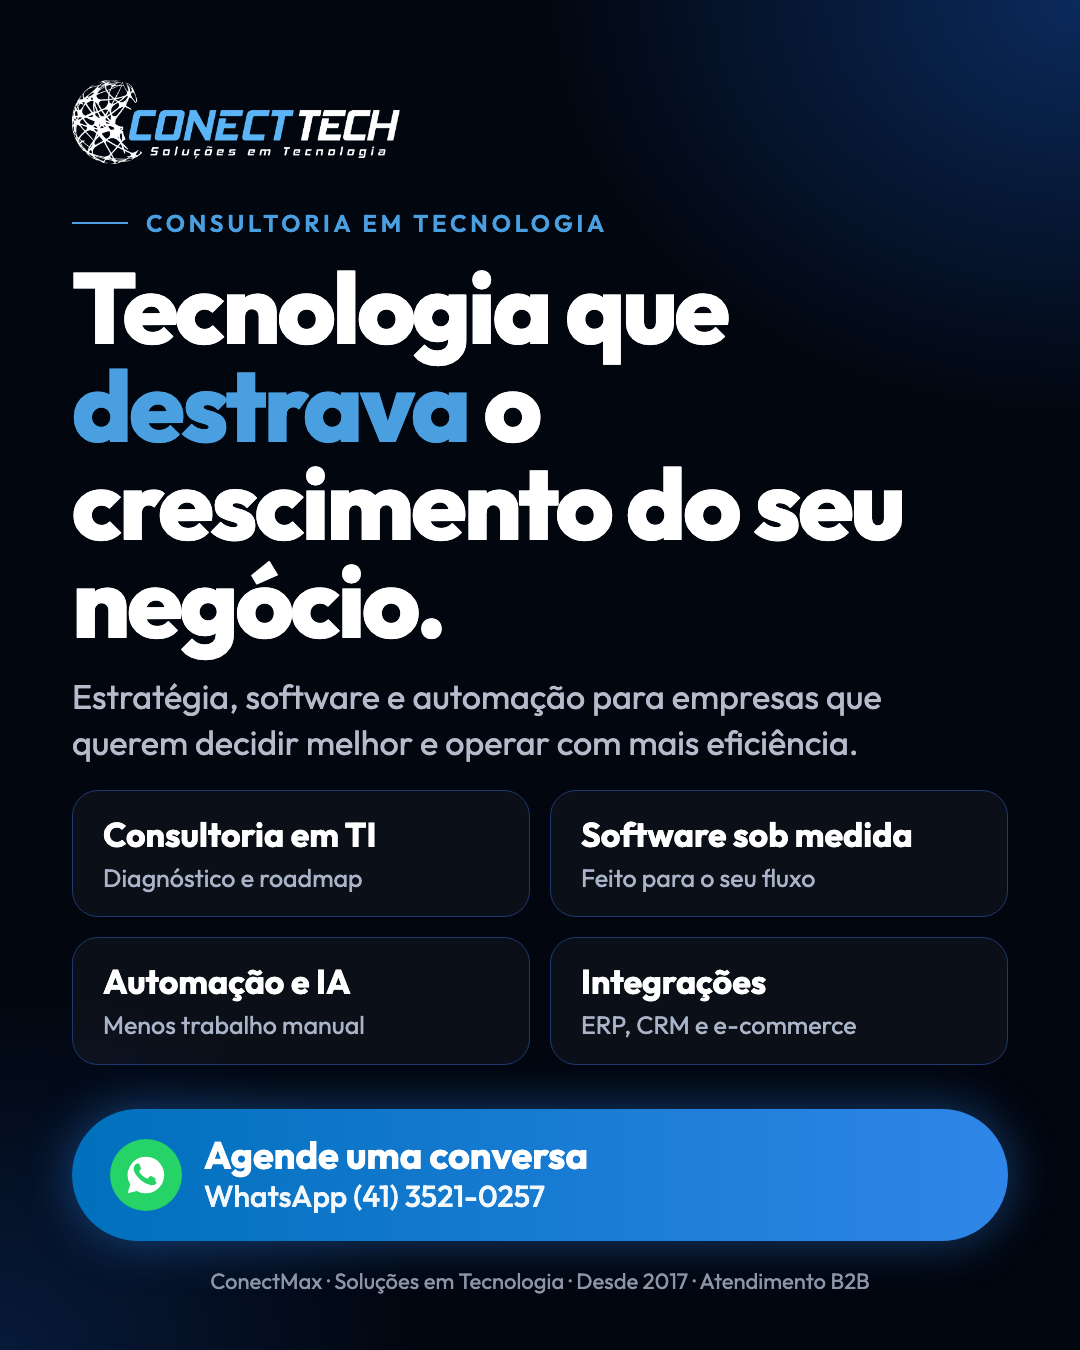
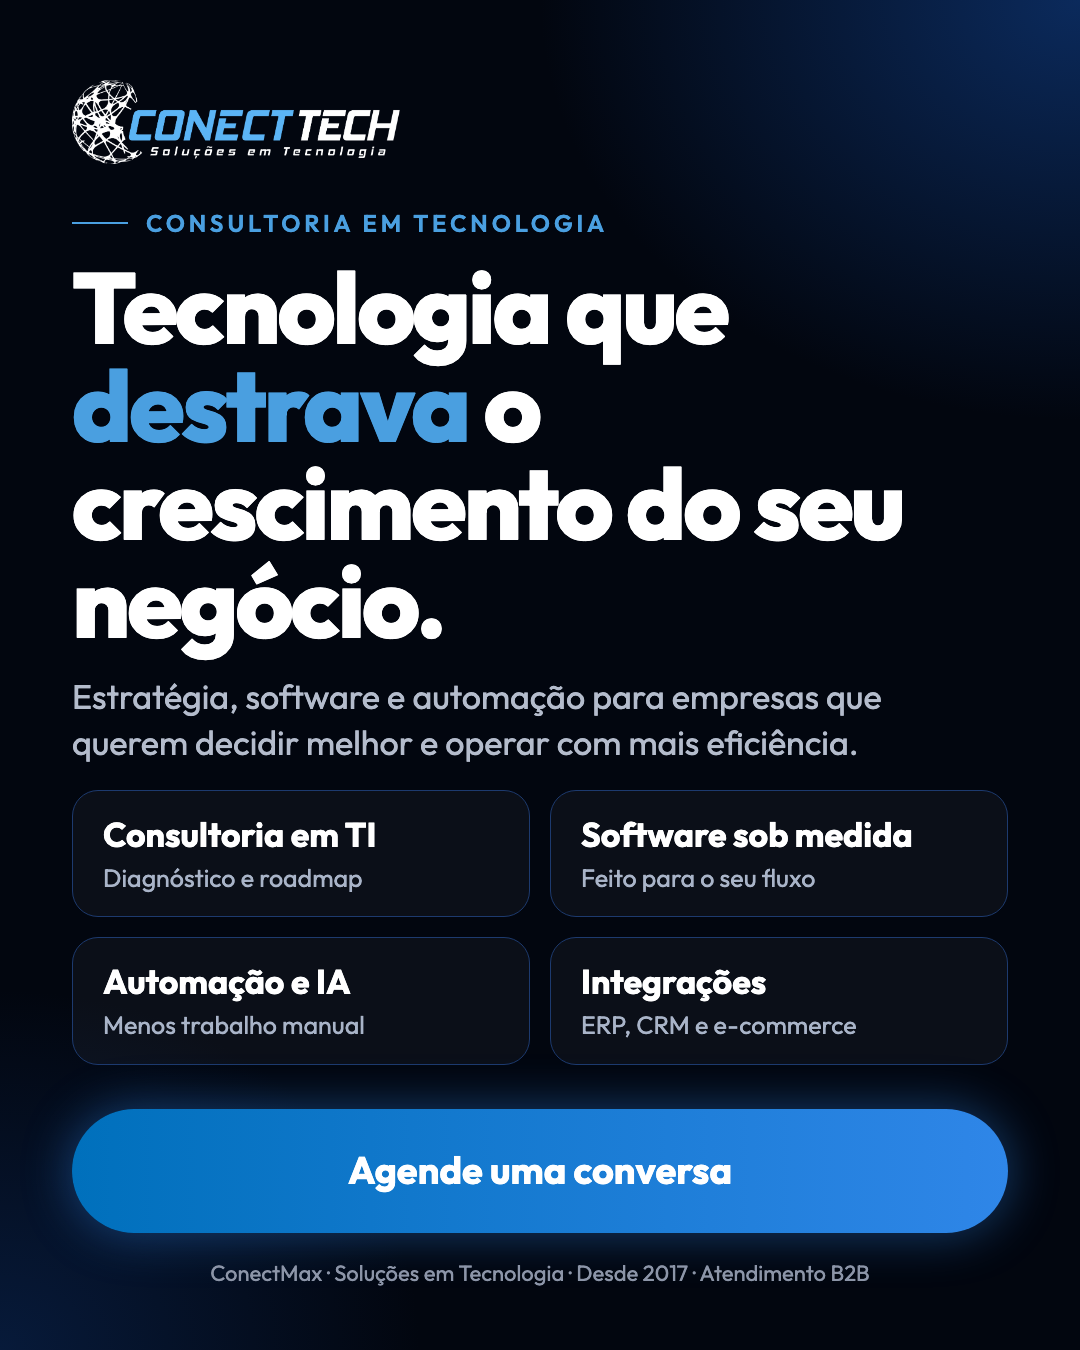
Remove WhatsApp das artes ConectTech: CTA só com a chamada.
Ícone e número saíram do botão (gen.py → HTML/PNG); doc de insumos atualizado com o caminho inverso.

Changed region(s): [[0.0917, 0.84, 0.9167, 0.9644]]

diff --git a/conectmax/connectmax/marca/artes-apresentacao-consultoria/fonte/arte-06-servicos-cartao.html b/conectmax/connectmax/marca/artes-apresentacao-consultoria/fonte/arte-06-servicos-cartao.html
@@ -14,11 +14,8 @@ h1 em{font-style:normal;color:#4A9FE0}.light h1 em{color:#0070BC}
 p.sub{font-size:34px;line-height:1.35;color:#B4BCCC;margin-top:24px;font-weight:400;max-width:900px}
 .light p.sub{color:#3A4254}
 .sp{flex:1}
-.cta{display:flex;align-items:center;gap:22px;background:linear-gradient(90deg,#0070BC,#2f86e8);border-radius:70px;padding:26px 38px;box-shadow:0 0 50px rgba(47,134,232,.45);color:#fff}
-.wa{width:72px;height:72px;border-radius:50%;background:#25D366;display:grid;place-items:center;flex:none}
-.wa svg{width:44px;height:44px;fill:#fff}
-.cta b{font-size:38px;font-weight:700;display:block;line-height:1.1}
-.cta span{font-size:30px;font-weight:500;opacity:.95}
+.cta{display:flex;align-items:center;justify-content:center;min-height:124px;background:linear-gradient(90deg,#0070BC,#2f86e8);border-radius:70px;padding:26px 38px;box-shadow:0 0 50px rgba(47,134,232,.45);color:#fff}
+.cta b{font-size:38px;font-weight:700;line-height:1.1}
 .foot{font-size:22px;color:#8C95A8;margin-top:26px;text-align:center}
 .card{background:rgba(255,255,255,.04);border:1px solid #1d3a6e;border-radius:26px;padding:22px 30px}
 .light .card{background:#fff;border:1px solid #DADEE7}
@@ -36,4 +33,4 @@ p.sub{font-size:34px;line-height:1.35;color:#B4BCCC;margin-top:24px;font-weight:
 <div class="sp" style="max-height:50px"></div>
 <div class="grid g2" style="margin-top:30px"><div style="border:1.5px solid rgba(255,255,255,.35);border-radius:22px;padding:22px 28px;font-size:32px;font-weight:600;background:rgba(255,255,255,.08)">Consultoria em TI</div><div style="border:1.5px solid rgba(255,255,255,.35);border-radius:22px;padding:22px 28px;font-size:32px;font-weight:600;background:rgba(255,255,255,.08)">Software sob medida</div><div style="border:1.5px solid rgba(255,255,255,.35);border-radius:22px;padding:22px 28px;font-size:32px;font-weight:600;background:rgba(255,255,255,.08)">Portal de compras B2B</div><div style="border:1.5px solid rgba(255,255,255,.35);border-radius:22px;padding:22px 28px;font-size:32px;font-weight:600;background:rgba(255,255,255,.08)">Aplicativos mobile</div><div style="border:1.5px solid rgba(255,255,255,.35);border-radius:22px;padding:22px 28px;font-size:32px;font-weight:600;background:rgba(255,255,255,.08)">Integrações e modernização</div><div style="border:1.5px solid rgba(255,255,255,.35);border-radius:22px;padding:22px 28px;font-size:32px;font-weight:600;background:rgba(255,255,255,.08)">Dados e dashboards</div><div style="border:1.5px solid rgba(255,255,255,.35);border-radius:22px;padding:22px 28px;font-size:32px;font-weight:600;background:rgba(255,255,255,.08)">IA na sua empresa</div><div style="border:1.5px solid rgba(255,255,255,.35);border-radius:22px;padding:22px 28px;font-size:32px;font-weight:600;background:rgba(255,255,255,.08)">Automação de processos</div></div>
 <div class="sp"></div>
-<div class="cta"><div class="wa"><svg viewBox="0 0 24 24"><path d="M12 2a10 10 0 0 0-8.6 15.1L2 22l5-1.3A10 10 0 1 0 12 2zm5.8 14.2c-.2.7-1.4 1.3-2 1.3-.5.1-1.2.1-3.8-.9-3.2-1.3-5.2-4.5-5.4-4.7-.1-.2-1.300-1.700-1.300-3.200s.8-2.300 1.100-2.600c.3-.3.600-.4.800-.4h.6c.2 0 .4 0 .6.500l.8 2c.1.200.1.400 0 .5l-.4.600-.3.400c-.1.100-.3.300-.1.600.2.300.8 1.300 1.700 2.100 1.200 1 2.100 1.300 2.400 1.500.3.100.5.100.7-.1l.9-1.100c.2-.3.400-.2.600-.1l1.900.9c.3.100.5.200.5.300.1.200.1.800-.1 1.400z"/></svg></div><div><b>Solicite uma proposta</b><span>WhatsApp (41) 3521-0257</span></div></div><div class="foot" style="color:#C9D1E0">ConectMax · Soluções em Tecnologia · Desde 2017 · Atendimento B2B</div></body></html>
+<div class="cta"><b>Solicite uma proposta</b></div><div class="foot" style="color:#C9D1E0">ConectMax · Soluções em Tecnologia · Desde 2017 · Atendimento B2B</div></body></html>

diff --git a/conectmax/connectmax/marca/artes-apresentacao-consultoria/fonte/arte-04-do-diagnostico-ao-sistema.html b/conectmax/connectmax/marca/artes-apresentacao-consultoria/fonte/arte-04-do-diagnostico-ao-sistema.html
@@ -14,11 +14,8 @@ h1 em{font-style:normal;color:#4A9FE0}.light h1 em{color:#0070BC}
 p.sub{font-size:34px;line-height:1.35;color:#B4BCCC;margin-top:24px;font-weight:400;max-width:900px}
 .light p.sub{color:#3A4254}
 .sp{flex:1}
-.cta{display:flex;align-items:center;gap:22px;background:linear-gradient(90deg,#0070BC,#2f86e8);border-radius:70px;padding:26px 38px;box-shadow:0 0 50px rgba(47,134,232,.45);color:#fff}
-.wa{width:72px;height:72px;border-radius:50%;background:#25D366;display:grid;place-items:center;flex:none}
-.wa svg{width:44px;height:44px;fill:#fff}
-.cta b{font-size:38px;font-weight:700;display:block;line-height:1.1}
-.cta span{font-size:30px;font-weight:500;opacity:.95}
+.cta{display:flex;align-items:center;justify-content:center;min-height:124px;background:linear-gradient(90deg,#0070BC,#2f86e8);border-radius:70px;padding:26px 38px;box-shadow:0 0 50px rgba(47,134,232,.45);color:#fff}
+.cta b{font-size:38px;font-weight:700;line-height:1.1}
 .foot{font-size:22px;color:#8C95A8;margin-top:26px;text-align:center}
 .card{background:rgba(255,255,255,.04);border:1px solid #1d3a6e;border-radius:26px;padding:22px 30px}
 .light .card{background:#fff;border:1px solid #DADEE7}
@@ -35,4 +32,4 @@ p.sub{font-size:34px;line-height:1.35;color:#B4BCCC;margin-top:24px;font-weight:
 <div class="sp" style="max-height:40px"></div>
 <div style="display:flex;flex-direction:column;gap:16px;margin-top:20px"><div class="card" style="display:flex;gap:26px;align-items:center;padding:16px 34px"><div class="num">1</div><div><b>Diagnóstico</b><small>Entendemos o negócio e os processos</small></div></div><div class="card" style="display:flex;gap:26px;align-items:center;padding:16px 34px"><div class="num">2</div><div><b>Proposta</b><small>Escopo, prazo e investimento definidos</small></div></div><div class="card" style="display:flex;gap:26px;align-items:center;padding:16px 34px"><div class="num">3</div><div><b>Protótipo</b><small>Telas navegáveis antes de programar</small></div></div><div class="card" style="display:flex;gap:26px;align-items:center;padding:16px 34px"><div class="num">4</div><div><b>Desenvolvimento</b><small>Sprints curtas com demonstração</small></div></div><div class="card" style="display:flex;gap:26px;align-items:center;padding:16px 34px"><div class="num">5</div><div><b>Implantação</b><small>Treinamento e suporte contínuo</small></div></div></div>
 <div class="sp"></div>
-<div class="cta"><div class="wa"><svg viewBox="0 0 24 24"><path d="M12 2a10 10 0 0 0-8.6 15.1L2 22l5-1.3A10 10 0 1 0 12 2zm5.8 14.2c-.2.7-1.4 1.3-2 1.3-.5.1-1.2.1-3.8-.9-3.2-1.3-5.2-4.5-5.4-4.7-.1-.2-1.300-1.700-1.300-3.200s.8-2.300 1.100-2.600c.3-.3.600-.4.800-.4h.6c.2 0 .4 0 .6.500l.8 2c.1.200.1.400 0 .5l-.4.600-.3.400c-.1.100-.3.300-.1.600.2.300.8 1.300 1.700 2.100 1.200 1 2.100 1.300 2.400 1.500.3.100.5.100.7-.1l.9-1.100c.2-.3.400-.2.600-.1l1.900.9c.3.100.5.200.5.300.1.200.1.800-.1 1.400z"/></svg></div><div><b>Fale com um consultor</b><span>WhatsApp (41) 3521-0257</span></div></div><div class="foot" style="color:#5A6377">ConectMax · Soluções em Tecnologia · Desde 2017</div></body></html>
+<div class="cta"><b>Fale com um consultor</b></div><div class="foot" style="color:#5A6377">ConectMax · Soluções em Tecnologia · Desde 2017</div></body></html>

diff --git a/conectmax/connectmax/marca/artes-apresentacao-consultoria/fonte/arte-05-mesmo-parceiro.html b/conectmax/connectmax/marca/artes-apresentacao-consultoria/fonte/arte-05-mesmo-parceiro.html
@@ -14,11 +14,8 @@ h1 em{font-style:normal;color:#4A9FE0}.light h1 em{color:#0070BC}
 p.sub{font-size:34px;line-height:1.35;color:#B4BCCC;margin-top:24px;font-weight:400;max-width:900px}
 .light p.sub{color:#3A4254}
 .sp{flex:1}
-.cta{display:flex;align-items:center;gap:22px;background:linear-gradient(90deg,#0070BC,#2f86e8);border-radius:70px;padding:26px 38px;box-shadow:0 0 50px rgba(47,134,232,.45);color:#fff}
-.wa{width:72px;height:72px;border-radius:50%;background:#25D366;display:grid;place-items:center;flex:none}
-.wa svg{width:44px;height:44px;fill:#fff}
-.cta b{font-size:38px;font-weight:700;display:block;line-height:1.1}
-.cta span{font-size:30px;font-weight:500;opacity:.95}
+.cta{display:flex;align-items:center;justify-content:center;min-height:124px;background:linear-gradient(90deg,#0070BC,#2f86e8);border-radius:70px;padding:26px 38px;box-shadow:0 0 50px rgba(47,134,232,.45);color:#fff}
+.cta b{font-size:38px;font-weight:700;line-height:1.1}
 .foot{font-size:22px;color:#8C95A8;margin-top:26px;text-align:center}
 .card{background:rgba(255,255,255,.04);border:1px solid #1d3a6e;border-radius:26px;padding:22px 30px}
 .light .card{background:#fff;border:1px solid #DADEE7}
@@ -35,4 +32,4 @@ p.sub{font-size:34px;line-height:1.35;color:#B4BCCC;margin-top:24px;font-weight:
 <p class="sub">Consultoria e desenvolvimento de software, da cotação à implantação.</p>
 <div class="sp"></div>
 <div class="grid g2" style="margin-bottom:44px"><div class="card"><b style="font-size:64px;color:#4A9FE0;letter-spacing:-.03em;line-height:1">2017</b><small style="font-size:27px">Ano de fundação</small></div><div class="card"><b style="font-size:64px;color:#4A9FE0;letter-spacing:-.03em;line-height:1">+1.000</b><small style="font-size:27px">Empresas atendidas</small></div><div class="card"><b style="font-size:64px;color:#4A9FE0;letter-spacing:-.03em;line-height:1">8</b><small style="font-size:27px">Unidades: PR, SC, RS e SP</small></div><div class="card"><b style="font-size:64px;color:#4A9FE0;letter-spacing:-.03em;line-height:1">B2B</b><small style="font-size:27px">Atendimento exclusivo a empresas</small></div></div>
-<div class="cta"><div class="wa"><svg viewBox="0 0 24 24"><path d="M12 2a10 10 0 0 0-8.6 15.1L2 22l5-1.3A10 10 0 1 0 12 2zm5.8 14.2c-.2.7-1.4 1.3-2 1.3-.5.1-1.2.1-3.8-.9-3.2-1.3-5.2-4.5-5.4-4.7-.1-.2-1.300-1.700-1.300-3.200s.8-2.300 1.100-2.600c.3-.3.600-.4.800-.4h.6c.2 0 .4 0 .6.500l.8 2c.1.200.1.400 0 .5l-.4.600-.3.400c-.1.100-.3.300-.1.600.2.300.8 1.300 1.700 2.100 1.200 1 2.100 1.300 2.400 1.500.3.100.5.100.7-.1l.9-1.100c.2-.3.400-.2.600-.1l1.900.9c.3.100.5.200.5.300.1.200.1.800-.1 1.400z"/></svg></div><div><b>Fale com um consultor</b><span>WhatsApp (41) 3521-0257</span></div></div><div class="foot">ConectMax · Soluções em Tecnologia · Desde 2017 · Atendimento B2B</div></body></html>
+<div class="cta"><b>Fale com um consultor</b></div><div class="foot">ConectMax · Soluções em Tecnologia · Desde 2017 · Atendimento B2B</div></body></html>

diff --git a/conectmax/connectmax/marca/artes-apresentacao-consultoria/fonte/arte-02-por-onde-comecar.html b/conectmax/connectmax/marca/artes-apresentacao-consultoria/fonte/arte-02-por-onde-comecar.html
@@ -14,11 +14,8 @@ h1 em{font-style:normal;color:#4A9FE0}.light h1 em{color:#0070BC}
 p.sub{font-size:34px;line-height:1.35;color:#B4BCCC;margin-top:24px;font-weight:400;max-width:900px}
 .light p.sub{color:#3A4254}
 .sp{flex:1}
-.cta{display:flex;align-items:center;gap:22px;background:linear-gradient(90deg,#0070BC,#2f86e8);border-radius:70px;padding:26px 38px;box-shadow:0 0 50px rgba(47,134,232,.45);color:#fff}
-.wa{width:72px;height:72px;border-radius:50%;background:#25D366;display:grid;place-items:center;flex:none}
-.wa svg{width:44px;height:44px;fill:#fff}
-.cta b{font-size:38px;font-weight:700;display:block;line-height:1.1}
-.cta span{font-size:30px;font-weight:500;opacity:.95}
+.cta{display:flex;align-items:center;justify-content:center;min-height:124px;background:linear-gradient(90deg,#0070BC,#2f86e8);border-radius:70px;padding:26px 38px;box-shadow:0 0 50px rgba(47,134,232,.45);color:#fff}
+.cta b{font-size:38px;font-weight:700;line-height:1.1}
 .foot{font-size:22px;color:#8C95A8;margin-top:26px;text-align:center}
 .card{background:rgba(255,255,255,.04);border:1px solid #1d3a6e;border-radius:26px;padding:22px 30px}
 .light .card{background:#fff;border:1px solid #DADEE7}
@@ -38,4 +35,4 @@ p.sub{font-size:34px;line-height:1.35;color:#B4BCCC;margin-top:24px;font-weight:
 <div class="card" style="display:flex;gap:26px;align-items:center"><div class="num">1</div><div><b>Diagnóstico</b><small>Entendemos processos, sistemas e onde está o maior ganho.</small></div></div>
 <div class="card" style="display:flex;gap:26px;align-items:center"><div class="num">2</div><div><b>Plano e proposta</b><small>Escopo, prazo e investimento claros.</small></div></div>
 <div class="card" style="display:flex;gap:26px;align-items:center"><div class="num">3</div><div><b>Execução acompanhada</b><small>Entregas quinzenais, você vê o avanço.</small></div></div></div>
-<div class="cta"><div class="wa"><svg viewBox="0 0 24 24"><path d="M12 2a10 10 0 0 0-8.6 15.1L2 22l5-1.3A10 10 0 1 0 12 2zm5.8 14.2c-.2.7-1.4 1.3-2 1.3-.5.1-1.2.1-3.8-.9-3.2-1.3-5.2-4.5-5.4-4.7-.1-.2-1.300-1.700-1.300-3.200s.8-2.300 1.100-2.600c.3-.3.600-.4.800-.4h.6c.2 0 .4 0 .6.500l.8 2c.1.200.1.400 0 .5l-.4.600-.3.400c-.1.100-.3.300-.1.600.2.300.8 1.300 1.700 2.100 1.200 1 2.100 1.300 2.400 1.500.3.100.5.100.7-.1l.9-1.100c.2-.3.400-.2.600-.1l1.900.9c.3.100.5.200.5.300.1.200.1.800-.1 1.400z"/></svg></div><div><b>Peça um diagnóstico inicial</b><span>WhatsApp (41) 3521-0257</span></div></div><div class="foot">ConectMax · Soluções em Tecnologia · Desde 2017 · Atendimento B2B</div></body></html>
+<div class="cta"><b>Peça um diagnóstico inicial</b></div><div class="foot">ConectMax · Soluções em Tecnologia · Desde 2017 · Atendimento B2B</div></body></html>

diff --git a/conectmax/connectmax/marca/artes-apresentacao-consultoria/fonte/arte-01-destrava-crescimento.html b/conectmax/connectmax/marca/artes-apresentacao-consultoria/fonte/arte-01-destrava-crescimento.html
@@ -14,11 +14,8 @@ h1 em{font-style:normal;color:#4A9FE0}.light h1 em{color:#0070BC}
 p.sub{font-size:34px;line-height:1.35;color:#B4BCCC;margin-top:24px;font-weight:400;max-width:900px}
 .light p.sub{color:#3A4254}
 .sp{flex:1}
-.cta{display:flex;align-items:center;gap:22px;background:linear-gradient(90deg,#0070BC,#2f86e8);border-radius:70px;padding:26px 38px;box-shadow:0 0 50px rgba(47,134,232,.45);color:#fff}
-.wa{width:72px;height:72px;border-radius:50%;background:#25D366;display:grid;place-items:center;flex:none}
-.wa svg{width:44px;height:44px;fill:#fff}
-.cta b{font-size:38px;font-weight:700;display:block;line-height:1.1}
-.cta span{font-size:30px;font-weight:500;opacity:.95}
+.cta{display:flex;align-items:center;justify-content:center;min-height:124px;background:linear-gradient(90deg,#0070BC,#2f86e8);border-radius:70px;padding:26px 38px;box-shadow:0 0 50px rgba(47,134,232,.45);color:#fff}
+.cta b{font-size:38px;font-weight:700;line-height:1.1}
 .foot{font-size:22px;color:#8C95A8;margin-top:26px;text-align:center}
 .card{background:rgba(255,255,255,.04);border:1px solid #1d3a6e;border-radius:26px;padding:22px 30px}
 .light .card{background:#fff;border:1px solid #DADEE7}
@@ -39,4 +36,4 @@ p.sub{font-size:34px;line-height:1.35;color:#B4BCCC;margin-top:24px;font-weight:
 <div class="card"><b>Software sob medida</b><small>Feito para o seu fluxo</small></div>
 <div class="card"><b>Automação e IA</b><small>Menos trabalho manual</small></div>
 <div class="card"><b>Integrações</b><small>ERP, CRM e e-commerce</small></div></div>
-<div class="cta"><div class="wa"><svg viewBox="0 0 24 24"><path d="M12 2a10 10 0 0 0-8.6 15.1L2 22l5-1.3A10 10 0 1 0 12 2zm5.8 14.2c-.2.7-1.4 1.3-2 1.3-.5.1-1.2.1-3.8-.9-3.2-1.3-5.2-4.5-5.4-4.7-.1-.2-1.300-1.700-1.300-3.200s.8-2.300 1.100-2.600c.3-.3.600-.4.800-.4h.6c.2 0 .4 0 .6.500l.8 2c.1.200.1.400 0 .5l-.4.600-.3.400c-.1.100-.3.300-.1.600.2.300.8 1.300 1.700 2.100 1.200 1 2.100 1.300 2.400 1.500.3.100.5.100.7-.1l.9-1.100c.2-.3.400-.2.600-.1l1.900.9c.3.100.5.200.5.300.1.200.1.800-.1 1.400z"/></svg></div><div><b>Agende uma conversa</b><span>WhatsApp (41) 3521-0257</span></div></div><div class="foot">ConectMax · Soluções em Tecnologia · Desde 2017 · Atendimento B2B</div></body></html>
+<div class="cta"><b>Agende uma conversa</b></div><div class="foot">ConectMax · Soluções em Tecnologia · Desde 2017 · Atendimento B2B</div></body></html>

diff --git a/conectmax/connectmax/marca/artes-apresentacao-consultoria/fonte/arte-03-menos-complexidade.html b/conectmax/connectmax/marca/artes-apresentacao-consultoria/fonte/arte-03-menos-complexidade.html
@@ -14,11 +14,8 @@ h1 em{font-style:normal;color:#4A9FE0}.light h1 em{color:#0070BC}
 p.sub{font-size:34px;line-height:1.35;color:#B4BCCC;margin-top:24px;font-weight:400;max-width:900px}
 .light p.sub{color:#3A4254}
 .sp{flex:1}
-.cta{display:flex;align-items:center;gap:22px;background:linear-gradient(90deg,#0070BC,#2f86e8);border-radius:70px;padding:26px 38px;box-shadow:0 0 50px rgba(47,134,232,.45);color:#fff}
-.wa{width:72px;height:72px;border-radius:50%;background:#25D366;display:grid;place-items:center;flex:none}
-.wa svg{width:44px;height:44px;fill:#fff}
-.cta b{font-size:38px;font-weight:700;display:block;line-height:1.1}
-.cta span{font-size:30px;font-weight:500;opacity:.95}
+.cta{display:flex;align-items:center;justify-content:center;min-height:124px;background:linear-gradient(90deg,#0070BC,#2f86e8);border-radius:70px;padding:26px 38px;box-shadow:0 0 50px rgba(47,134,232,.45);color:#fff}
+.cta b{font-size:38px;font-weight:700;line-height:1.1}
 .foot{font-size:22px;color:#8C95A8;margin-top:26px;text-align:center}
 .card{background:rgba(255,255,255,.04);border:1px solid #1d3a6e;border-radius:26px;padding:22px 30px}
 .light .card{background:#fff;border:1px solid #DADEE7}
@@ -34,4 +31,4 @@ p.sub{font-size:34px;line-height:1.35;color:#B4BCCC;margin-top:24px;font-weight:
 <h1 style="font-size:118px">Menos complexidade.<br><em>Mais resultado.</em></h1>
 <p class="sub" style="font-size:38px">Consultoria em tecnologia para empresas que querem fazer mais com o que já têm.</p>
 <div class="sp"></div><div class="sp"></div>
-<div class="cta"><div class="wa"><svg viewBox="0 0 24 24"><path d="M12 2a10 10 0 0 0-8.6 15.1L2 22l5-1.3A10 10 0 1 0 12 2zm5.8 14.2c-.2.7-1.4 1.3-2 1.3-.5.1-1.2.1-3.8-.9-3.2-1.3-5.2-4.5-5.4-4.7-.1-.2-1.300-1.700-1.300-3.200s.8-2.300 1.100-2.600c.3-.3.600-.4.800-.4h.6c.2 0 .4 0 .6.500l.8 2c.1.200.1.400 0 .5l-.4.600-.3.400c-.1.100-.3.300-.1.600.2.300.8 1.300 1.700 2.100 1.200 1 2.100 1.300 2.400 1.500.3.100.5.100.7-.1l.9-1.100c.2-.3.400-.2.600-.1l1.900.9c.3.100.5.200.5.300.1.200.1.800-.1 1.400z"/></svg></div><div><b>Vamos conversar?</b><span>WhatsApp (41) 3521-0257</span></div></div><div class="foot">ConectMax · Soluções em Tecnologia · Desde 2017 · Atendimento B2B</div></body></html>
+<div class="cta"><b>Vamos conversar?</b></div><div class="foot">ConectMax · Soluções em Tecnologia · Desde 2017 · Atendimento B2B</div></body></html>

diff --git a/conectmax/connectmax/marca/artes-apresentacao-consultoria/fonte/gen.py b/conectmax/connectmax/marca/artes-apresentacao-consultoria/fonte/gen.py
@@ -14,11 +14,8 @@ h1 em{font-style:normal;color:#4A9FE0}.light h1 em{color:#0070BC}
 p.sub{font-size:34px;line-height:1.35;color:#B4BCCC;margin-top:24px;font-weight:400;max-width:900px}
 .light p.sub{color:#3A4254}
 .sp{flex:1}
-.cta{display:flex;align-items:center;gap:22px;background:linear-gradient(90deg,#0070BC,#2f86e8);border-radius:70px;padding:26px 38px;box-shadow:0 0 50px rgba(47,134,232,.45);color:#fff}
-.wa{width:72px;height:72px;border-radius:50%;background:#25D366;display:grid;place-items:center;flex:none}
-.wa svg{width:44px;height:44px;fill:#fff}
-.cta b{font-size:38px;font-weight:700;display:block;line-height:1.1}
-.cta span{font-size:30px;font-weight:500;opacity:.95}
+.cta{display:flex;align-items:center;justify-content:center;min-height:124px;background:linear-gradient(90deg,#0070BC,#2f86e8);border-radius:70px;padding:26px 38px;box-shadow:0 0 50px rgba(47,134,232,.45);color:#fff}
+.cta b{font-size:38px;font-weight:700;line-height:1.1}
 .foot{font-size:22px;color:#8C95A8;margin-top:26px;text-align:center}
 .card{background:rgba(255,255,255,.04);border:1px solid #1d3a6e;border-radius:26px;padding:22px 30px}
 .light .card{background:#fff;border:1px solid #DADEE7}
@@ -30,9 +27,8 @@ p.sub{font-size:34px;line-height:1.35;color:#B4BCCC;margin-top:24px;font-weight:
 .num{width:64px;height:64px;border-radius:50%;border:2px solid #4A9FE0;display:grid;place-items:center;font-weight:700;font-size:30px;flex:none;color:#fff}
 .light .num{background:#0070BC;border-color:#0070BC;color:#fff}
 """
-WA='<svg viewBox="0 0 24 24"><path d="M12 2a10 10 0 0 0-8.6 15.1L2 22l5-1.3A10 10 0 1 0 12 2zm5.8 14.2c-.2.7-1.4 1.3-2 1.3-.5.1-1.2.1-3.8-.9-3.2-1.3-5.2-4.5-5.4-4.7-.1-.2-1.300-1.700-1.300-3.200s.8-2.300 1.100-2.600c.3-.3.600-.4.800-.4h.6c.2 0 .4 0 .6.500l.8 2c.1.200.1.400 0 .5l-.4.600-.3.400c-.1.100-.3.300-.1.600.2.300.8 1.300 1.700 2.100 1.200 1 2.100 1.300 2.400 1.500.3.100.5.100.7-.1l.9-1.100c.2-.3.400-.2.600-.1l1.900.9c.3.100.5.200.5.300.1.200.1.800-.1 1.400z"/></svg>'
 def cta(t="Fale com um consultor"):
-    return f'<div class="cta"><div class="wa">{WA}</div><div><b>{t}</b><span>WhatsApp (41) 3521-0257</span></div></div>'
+    return f'<div class="cta"><b>{t}</b></div>'
 def page(n,cls,body,logo="noite"):
     open(f"arte-{n}.html","w").write(f'<!DOCTYPE html><html lang="pt-BR"><meta charset="utf-8"><style>{CSS}</style><body class="{cls}"><img class="logo" src="logo-tech-{logo}.png">{body}</body></html>')
 FOOT='<div class="foot">ConectMax · Soluções em Tecnologia · Desde 2017 · Atendimento B2B</div>'

diff --git a/activities/160be6eb-27d9-48b5-873a-7031cc0ffde8.md b/activities/160be6eb-27d9-48b5-873a-7031cc0ffde8.md
@@ -1,0 +1,25 @@
+---
+id: 160be6eb-27d9-48b5-873a-7031cc0ffde8
+title: Ajustar artes
+parent: b7d87a75-6686-4fff-adf2-031da8819f48
+assignee: null
+status: done
+createdAt: 2026-11-28T01:06:47.428Z
+---
+Ajustar as artes da conectech existentes removendo o wpp
+
+## Artes sem WhatsApp
+
+Saíram o ícone e o número; o botão ficou só com a chamada. Fonte: [`gen.py`](../conectmax/connectmax/marca/artes-apresentacao-consultoria/fonte/gen.py)
+
+![01 — Destrava o crescimento](../conectmax/connectmax/marca/artes-apresentacao-consultoria/arte-01-destrava-crescimento.png)
+
+![02 — Por onde começar](../conectmax/connectmax/marca/artes-apresentacao-consultoria/arte-02-por-onde-comecar.png)
+
+![03 — Menos complexidade](../conectmax/connectmax/marca/artes-apresentacao-consultoria/arte-03-menos-complexidade.png)
+
+![04 — Do diagnóstico ao sistema](../conectmax/connectmax/marca/artes-apresentacao-consultoria/arte-04-do-diagnostico-ao-sistema.png)
+
+![05 — Mesmo parceiro](../conectmax/connectmax/marca/artes-apresentacao-consultoria/arte-05-mesmo-parceiro.png)
+
+![06 — Serviços](../conectmax/connectmax/marca/artes-apresentacao-consultoria/arte-06-servicos-cartao.png)

diff --git a/conectmax/connectmax/marca/artes-apresentacao-consultoria/insumos-mensagem-email.md b/conectmax/connectmax/marca/artes-apresentacao-consultoria/insumos-mensagem-email.md
@@ -41,7 +41,7 @@ Pasta: [`artes-apresentacao-consultoria/`](./) · fontes: [`fonte/`](fonte/)
 | [`arte-05-mesmo-parceiro.png`](arte-05-mesmo-parceiro.png) | O parceiro que abastece sua tecnologia agora **constrói seus sistemas** | Consultoria e software, da cotação à implantação · 2017 · +1.000 empresas · PR/SC/RS/SP · B2B | Fale com um consultor |
 | [`arte-06-servicos-cartao.png`](arte-06-servicos-cartao.png) | Pensamos, desenhamos e **entregamos** | Consultoria · Software sob medida · Portal de compras B2B · Apps · Integrações · Dashboards · IA · Automação | Solicite uma proposta |
 
-Rodapé comum nas artes: `ConectMax · Soluções em Tecnologia · Desde 2017 · Atendimento B2B` · WhatsApp `(41) 3521-0257`.
+Rodapé comum nas artes: `ConectMax · Soluções em Tecnologia · Desde 2017 · Atendimento B2B`. CTA sem ícone/número de WhatsApp (só a chamada) — ver [`fonte/gen.py`](fonte/gen.py). Antes: botão com ícone WA + `(41) 3521-0257`.
 
 ---
 
